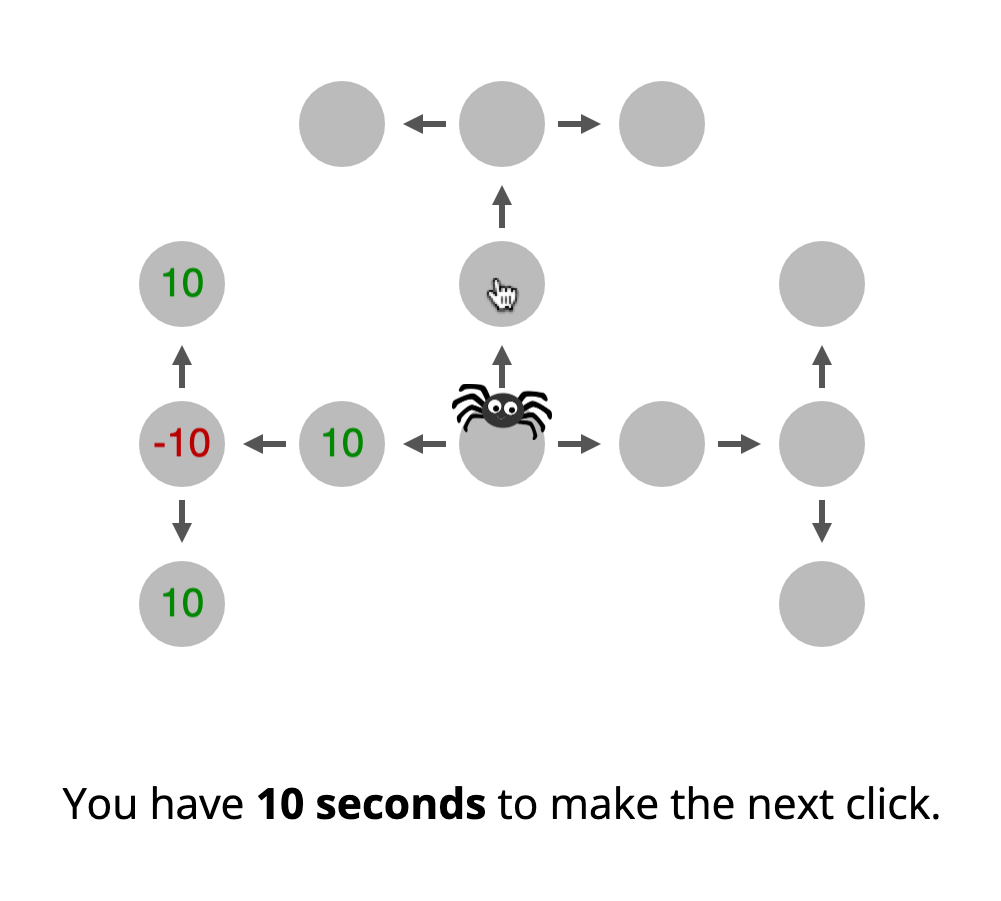
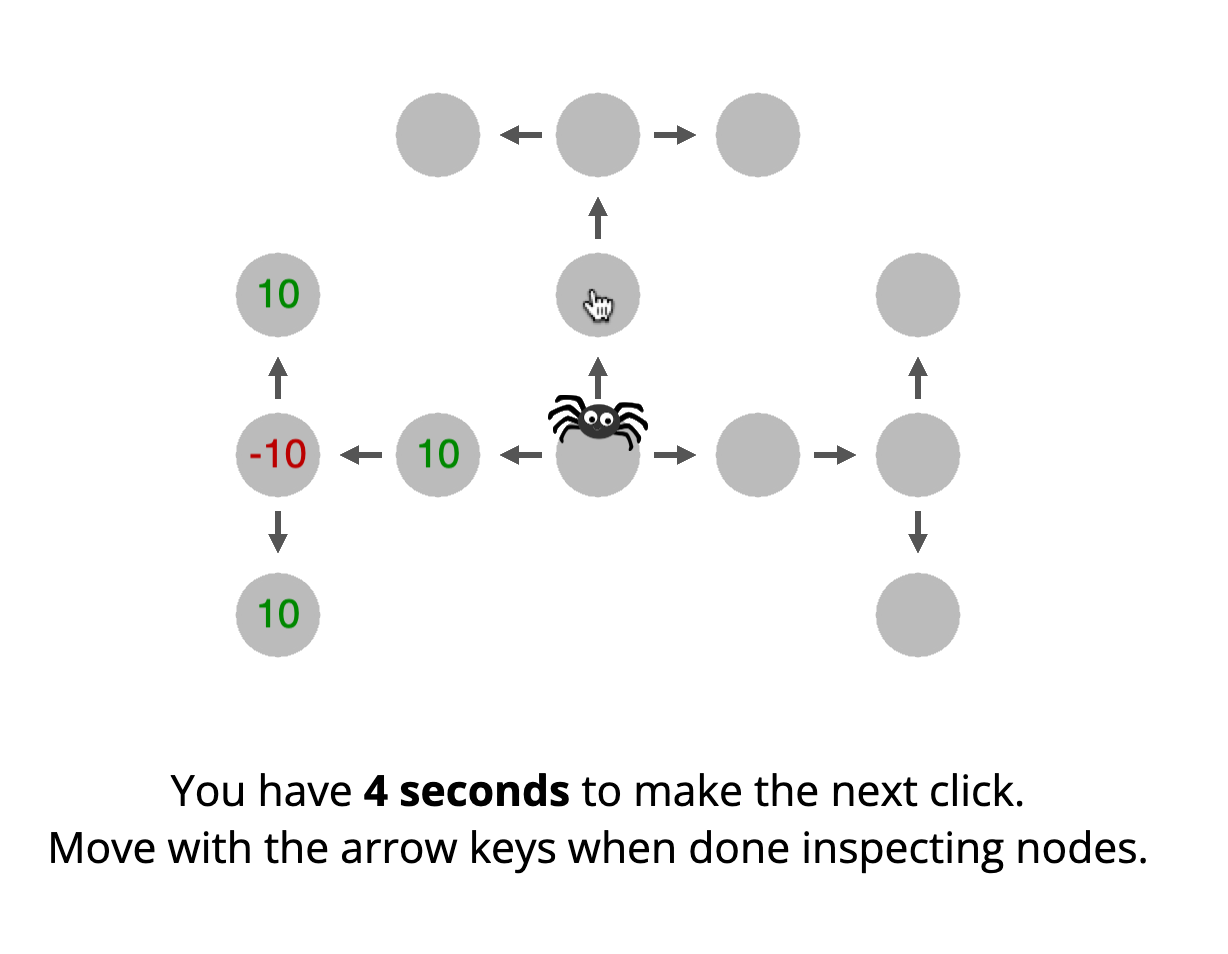
updates to experiment instructions

Changed region(s): [[0.1239, 0.2175, 0.8671, 0.7148], [0.031, 0.808, 0.9291, 0.9323], [0.2787, 0.0932, 0.7123, 0.1865]]

diff --git a/static/js/experiment.js b/static/js/experiment.js
@@ -4,7 +4,7 @@ var BLOCKS, BONUS, BONUS_RATE, CLICK_TIME_ANSWERS, CLICK_TIME_CORRECT, CONDITION
 
 DEBUG = false;
 
-DEBUG_INSTRUCTIONS = true;
+DEBUG_INSTRUCTIONS = false;
 
 DEBUG_SUBMIT = false;
 
@@ -180,9 +180,9 @@ console.log(psiturk.taskdata);
 
 workerId = psiturk.taskdata.attributes.workerId;
 
-if (workerId === "testCond0") {
+if (workerId.includes("TestCond0")) {
   CONDITION = 0;
-} else if (workerId === "testCond1") {
+} else if (workerId.includes("TestCond1")) {
   CONDITION = 1;
 }
 
@@ -327,7 +327,7 @@ createStartButton = function() {
 
 // Setting up the jsPsych experiment
 initializeExperiment = function() {
-  var combinedTimelineVariables, demographics, experiment_timeline, finish, finish_fail, fullscreen, i, if_node1, k, mdp_trials, minimumTime, numSeqTrials, prompt_resubmit, ready_screen, ref, reprompt, save_data, secret_code_trial, stimulus_template, task_disappearing_timed, task_memory, tv;
+  var combinedTimelineVariables, demographics, experiment_timeline, finish, finish_fail, fullscreen, i, if_node1, k, mdp_trials, minimumTime, numSeqTrials, prompt_resubmit, ready_screen, ref, reprompt, save_data, secret_code_trial, self_report, stimulus_template, task_disappearing_timed, task_memory, tv;
   $('#jspsych-target').html('');
   //  ============================== #
   //  ========= EXPERIMENT ========= #
@@ -411,7 +411,7 @@ If you complete the entire experiment, you will receive a bonus payment for your
 
  In the <em>Web of Cash</em> game you will guide a money-loving spider through a spider web. Your goal is to travel from the start of the web to the end of the web in three moves.
  <br><br>
- On your way from start to finish, you will pass through the <em>nodes</em> (gray circles) of the spider web.
+ On your way from start to finish, you will pass through the <em>nodes</em> (gray circles) of the spider web. The spider starts at the node in the middle of the web, and must be moved to any one of the six nodes at the edge of the web, which are three steps away from the starting node.
 
  Each of these nodes has a certain value, and <strong>the money collected from the nodes that you pass through from start to finish contribute to your score for that round.</strong> Once you finish a round, the score for that round will be displayed.
 
@@ -441,20 +441,15 @@ node. Once you start moving, you can no longer inspect any nodes.
 <img class='display' style="width:50%; height:auto" src='static/images/web-of-cash-timed.png'/>
 
 `,
-        `<h1> <em>Web of Cash</em> (2/3) - Rewards and Costs </h1>
-<div style="text-align: left">
-<li>You can find out about a node's loss or reward by using the node inspector, which costs <strong>$${COST} per revealed node.</strong></li>
-<li>In each round, you can see the score for that round in the top right corner.</li>
-<li>At the end of the round, you will be told what your score for that round is.</li>
-</div>
-`,
-        `<h1> Additional Information </h1>
+        `<h1> Web of Cash</em> (2/3) - Rewards and Costs </h1>
 
 <img class='display' style="width:50%; height:auto" src='static/images/web-of-cash.png'/>
 <div style="text-align: left">
 <li>You will be able to use the node inspector in each round.</li>
 <li>You will have to click on the starting node before a round starts.</li>
 <li>The timer to make the first click will begin as soon as you click on the starting node.</li>
+<li>In each round, you can see the score for that round in the top right corner.</li>
+<li>At the end of the round, you will be told what your score for that round is.</li>
 </div>`,
         `<h1> Practice Rounds </h1>
 <div style='text-align: left;'>
@@ -487,7 +482,7 @@ Click 'Next' to start with the practice rounds.`
 
  In the <em>Web of Cash</em> game you will guide a money-loving spider through a spider web. Your goal is to travel from the start of the web to the end of the web in three moves.
  <br><br>
- On your way from start to finish, you will pass through the <em>nodes</em> (gray circles) of the spider web.
+ On your way from start to finish, you will pass through the <em>nodes</em> (gray circles) of the spider web. The spider starts at the node in the middle of the web, and must be moved to any one of the six nodes at the edge of the web, which are three steps away from the starting node.
 
  Each of these nodes has a certain value, and <strong>the money collected from the nodes that you pass through from start to finish contribute to your score for that round.</strong> Once you finish a round, the score for that round will be displayed.
 
@@ -517,18 +512,12 @@ node. Once you start moving, you can no longer inspect any nodes.
 `,
         `<h1> <em>Web of Cash</em> (2/4) - Rewards and Costs </h1>
 <div style="text-align: left">
-<li>You can find out about a node's loss or reward by using the node inspector, which costs <strong>$${COST} per revealed node.</strong></li>
+<li>You will be able to use the node inspector in each round.</li>
+<li>You will have to click on the starting node before a round starts.</li>
 <li>In each round, you can see the score for that round in the top right corner.</li>
 <li>At the end of the round, you will be told what your score for that round is.</li>
 </div>
 `,
-        `<h1> Additional Information </h1>
-
-<img class='display' style="width:50%; height:auto" src='static/images/web-of-cash.png'/>
-<div style="text-align: left">
-<li>You will be able to use the node inspector in each round.</li>
-<li>You will have to click on the starting node before a round starts.</li>
-</div>`,
         `<h1> Practice Rounds </h1>
 <br><br>
 <div style='text-align: left;'>
@@ -629,20 +618,10 @@ Move with the arrow keys after you are done clicking.`,
     show_clickable_nav: true,
     pages: function() {
       return [
-        `<h1> <em>Web of Cash</em> (3/3) - Rewards and Costs </h1>
+        `<h1> <em>Web of Cash</em> (3/3) - Actual Game </h1>
 Now that you understand how the node inspector works from the practice rounds, here is what you need to know about the actual rounds of the game that count:
 <br><br>
 <div style="text-align: left">
-
-
-<li>You can find out about a node's loss or reward by using the node inspector, which costs <strong>$${COST} per revealed node, and this reward will be visible for ${TIME_NODE_REVEAL} seconds.</strong></li>
-<li>In each round, you can see the score for that round in the top right corner.</li>
-<li>At the end of each round, you will be told what your score for that round is.</li>
-<li>At the end of the game, you will be told what your score for the whole game is.</li>
-<li>The higher your score at the end of the game, the bigger your bonus will be!</li>
-</div>
-`,
-        `<h1> Additional Information </h1>
 
 <img class='display' style="width:50%; height:auto" src='static/images/web-of-cash.png'/>
 <div style="text-align: left">
@@ -652,6 +631,9 @@ Now that you understand how the node inspector works from the practice rounds, h
 <li><strong>You must spend <em>at least</em> ${PARAMS.MIN_TIME} seconds on each round.</strong> If you finish a round early, you'll have to wait until ${PARAMS.MIN_TIME} seconds have
     passed (before being able to move on).</li>
 <li>For each round of the game, the rewards on the web will be different. So, you have to make a new plan every time.</li>
+<li>At the end of each round, you will be told what your score for that round is.</li>
+<li>At the end of the game, you will be told what your score for the whole game is.</li>
+<li>The higher your score at the end of the game, the bigger your bonus will be!</li>
 </div>`,
         `<h1> Quiz </h1>
 
@@ -684,28 +666,22 @@ Your performance on the memory task will contribute to the bonus that you receiv
 For example, if you score 70% on the memory task, you will only receive 70% of the bonus you earned from your performance in the <i>Web of Cash</i> game.
 </div>
 <img class='display' style="width:50%; height:auto" src='static/images/memory-task.jpeg'/>`,
-        `<h1> <em>Web of Cash</em> (4/4) - Rewards and Costs </h1>
+        `<h1> <em>Web of Cash</em> (4/4) - Actual Game </h1>
 Now that you understand how the node inspector works from the practice rounds, here is what you need to know about the actual rounds of the game that count:
 <br><br>
 <div style="text-align: left">
 
-<li>You can find out about a node's loss or reward by using the node inspector, which costs <strong>$${COST} per revealed node.</strong></li>
+<li>You will be able to use the node inspector in each round.</li>
+<li>You will have to click on the starting node before a round starts.</li>
+<li><strong>You must spend <em>at least</em> ${PARAMS.MIN_TIME} seconds on each round of the Web of Cash game.</strong> If you finish a round early, you'll have to wait until ${PARAMS.MIN_TIME} seconds have
+    passed (before being able to move on).</li>
+<li>For each round of the game, the rewards on the web will be different. So, you have to make a new plan every time.</li>
 <li>In each round, you can see the score for that round in the top right corner.</li>
 <li>At the end of each round, you will be told what your score for that round is.</li>
 <li>At the end of the game, you will be told what your score for the whole game is.</li>
 <li>The higher your score at the end of the game and the better you perform on the memory task, the bigger your bonus will be!</li>
 </div>
 `,
-        `<h1> Additional Information </h1>
-
-<img class='display' style="width:50%; height:auto" src='static/images/web-of-cash.png'/>
-<div style="text-align: left">
-<li>You will be able to use the node inspector in each round.</li>
-<li>You will have to click on the starting node before a round starts.</li>
-<li><strong>You must spend <em>at least</em> ${PARAMS.MIN_TIME} seconds on each round of the Web of Cash game.</strong> If you finish a round early, you'll have to wait until ${PARAMS.MIN_TIME} seconds have
-    passed (before being able to move on).</li>
-<li>For each round of the game, the rewards on the web will be different. So, you have to make a new plan every time.</li>
-</div>`,
         `<h1> Quiz </h1>
 
 Before you can begin playing the <em>Web of Cash</em>, you <em>must</em> pass the instructions quiz to show
@@ -897,6 +873,35 @@ You <em>must</em> pass the quiz in at most <strong>${MAX_REPETITIONS}</strong> a
     }
   };
   // Final mouselab quiz for conditions with disappearing node values
+  self_report = {
+    preamble: function() {
+      return `<h1>Self-Report on Performance</h1>
+
+Please answer the following questions about how you approached the Web of Cash game.
+`;
+    },
+    type: jsPsychSurveyText,
+    data: {
+      trial_id: "self_report_disappear"
+    },
+    questions: [
+      {
+        prompt: "What was the strategy you used in the game? Briefly describe it in a couple of sentences.",
+        required: true,
+        rows: 10
+      },
+      {
+        prompt: "Did you improve your strategy over time? If so, how did you do it?",
+        required: true,
+        rows: 10
+      },
+      {
+        prompt: "How difficult did you find it to improve your performance in the game? What made it difficult?",
+        required: true,
+        rows: 10
+      }
+    ]
+  };
   task_disappearing_timed["final_quiz"] = {
     on_start: function() {
       return SCORE = Math.round(SCORE * 100) / 100;
@@ -1125,6 +1130,7 @@ Remember, the more money the spider gets, the bigger your bonus will be!
         stateDisplay: 'click',
         accumulateReward: true,
         wait_for_click: true,
+        minTime: minimumTime,
         withholdReward: false,
         scoreShift: 2,
         stateBorder: function() {
@@ -1339,7 +1345,7 @@ Please briefly answer the questions below before you submit the HIT.`;
   // if the subject passes the quiz, they continue and can earn a bonus for their performance
   // MDP trials and end if quiz is passed
   task_disappearing_timed["if_node2"] = {
-    timeline: [ready_screen, task_disappearing_timed["test_trials"], task_disappearing_timed["final_quiz"], demographics, finish],
+    timeline: [ready_screen, task_disappearing_timed["test_trials"], task_disappearing_timed["final_quiz"], self_report, demographics, finish],
     conditional_function: function() {
       if (REPETITIONS > MAX_REPETITIONS) {
         return false;
@@ -1349,7 +1355,7 @@ Please briefly answer the questions below before you submit the HIT.`;
     }
   };
   task_memory["if_node2"] = {
-    timeline: [ready_screen, task_memory["test_trials"], task_memory["final_quiz"], demographics, finish],
+    timeline: [ready_screen, task_memory["test_trials"], task_memory["final_quiz"], self_report, demographics, finish],
     conditional_function: function() {
       if (REPETITIONS > MAX_REPETITIONS) {
         return false;

diff --git a/static/js/jspsych-mouselab-mdp.js b/static/js/jspsych-mouselab-mdp.js
@@ -616,6 +616,7 @@ Press <code>space</code> to return to your corporeal form.`);
 
   clickState(g, s) {
     var r;
+    console.log(`clickState ${s} ` + Date.now());
     LOG_DEBUG(`clickState ${s}`);
     if (this.waiting && (`${s}` === `${this.initial}`)) {
       this.waiting = false;
@@ -658,6 +659,9 @@ Press <code>space</code> to return to your corporeal form.`);
     if (this.special === 'trainClickBlock' && this.data.queries.click.state.target.length === 2) {
       this.lowerMessage.html('<b>Nice job! You can click on more nodes or start moving.</b>');
       this.lowerMessage.css('color', '#000');
+    }
+    if (this.clicked_states.includes(s) && this.forbidReclick) {
+      return;
     }
     if (this.stateLabels && this.stateDisplay === 'click' && !(this.clicked_states.includes(s) && this.forbidReclick)) {
       this.addScore(-this.stateClickCost(`${s}`).toFixed(2), false);

diff --git a/static/js/mdp-experiment.js b/static/js/mdp-experiment.js
@@ -106,7 +106,7 @@ initializeExperiment = function() {
     },
     minTime: 10,
     stateDisplay: 'click',
-    stateResetMs: 2000,
+    stateResetMs: 5000,
     accumulateReward: true,
     wait_for_click: true,
     withholdReward: false,
@@ -122,7 +122,7 @@ initializeExperiment = function() {
     // trial_id: jsPsych.timelineVariable('trial_id',true)
     blockName: 'test',
     upperMessage: "Web of Cash - Practice Round",
-    nextClickTimeLimit: 2,
+    nextClickTimeLimit: 5,
 //     lowerMessage: `Click on the nodes to reveal their values.<br>
 // Move with the arrow keys after you are done clicking.`,
     timeline: getPracticeTrials(num_trials),

diff --git a/static/js/mdp-experiment-2.js b/static/js/mdp-experiment-2.js
@@ -159,7 +159,7 @@ initializeExperiment = function() {
           return COST;
         },
         stateDisplay: 'click',
-        stateResetMs: 2000,
+        stateResetMs: 5000,
         accumulateReward: true,
         wait_for_click: true,
         withholdReward: false,
